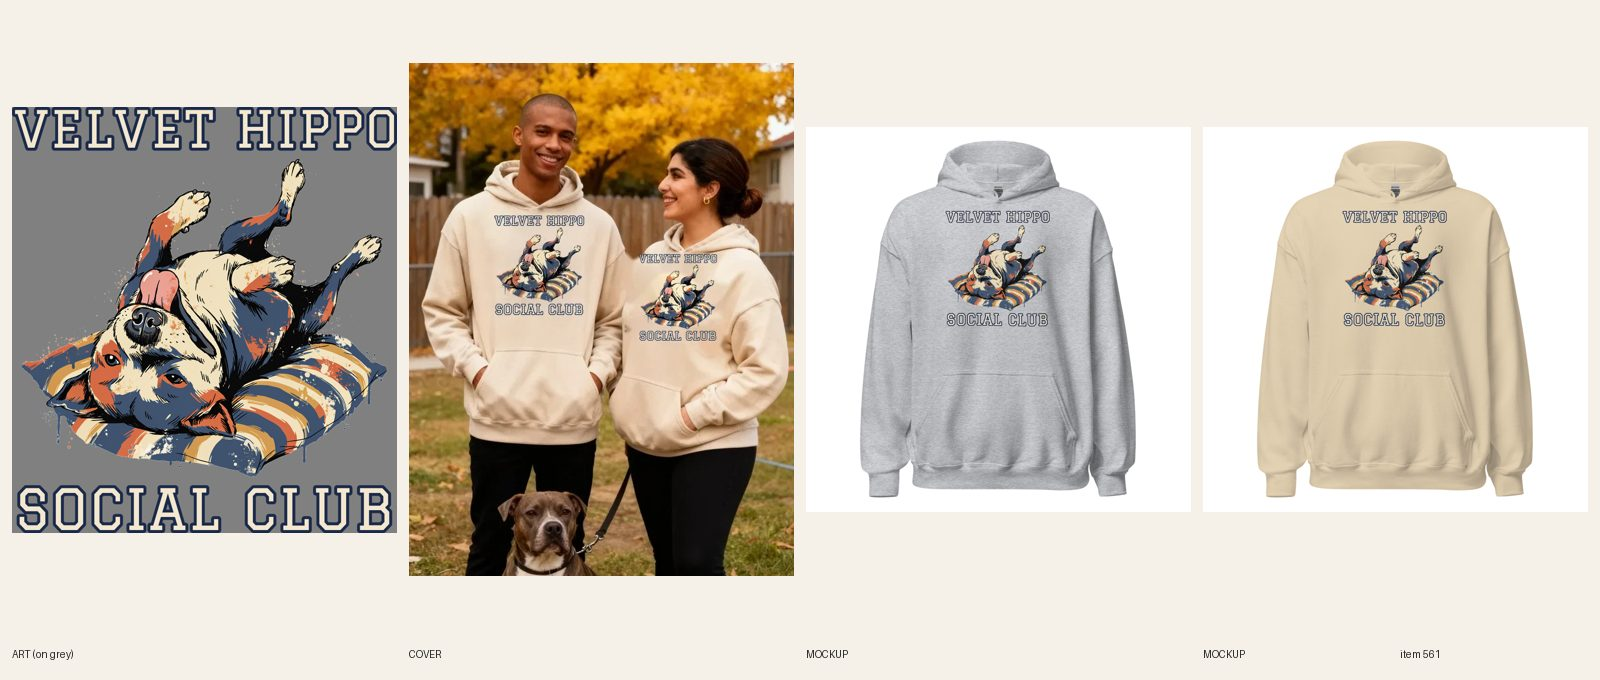
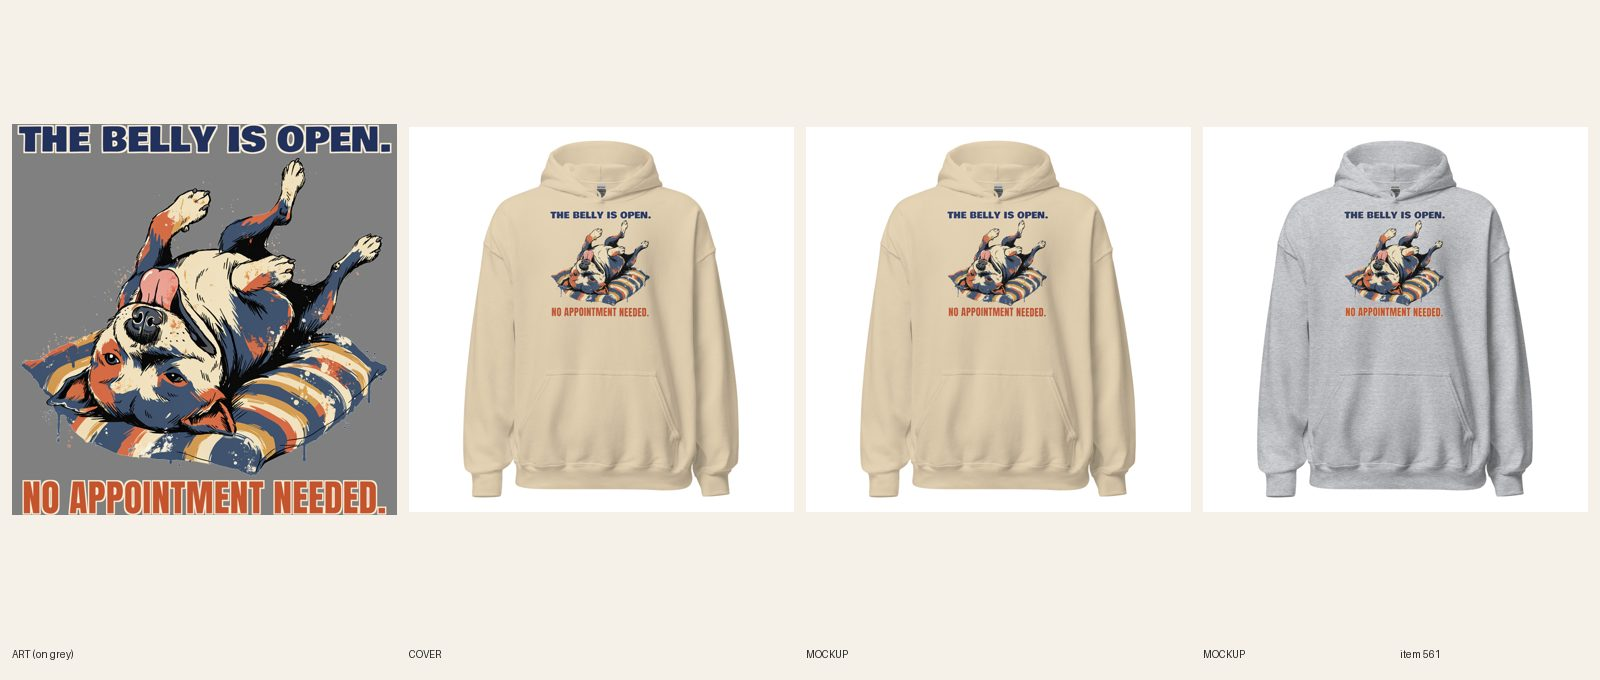
[C] review 561 (redo)
Claude-Session: https://claude.ai/code/session_01CCHcDj8LcJJ8qUPtKE3cvn

diff --git a/designs/c561/make.py b/designs/c561/make.py
@@ -1,0 +1,30 @@
+from PIL import Image, ImageDraw, ImageFont, ImageFilter
+FD='designs/fonts/'
+RED=(196,52,44,255); NAVY=(34,48,92,255); RUST=(196,84,46,255); CREAM=(246,236,214,255); BROWN=(58,36,24,255)
+def line(text,font,wfrac,W,fill,key,kw=31,track=0):
+    f=ImageFont.truetype(FD+font,800); adv=[f.getlength(c) for c in text]
+    tot=sum(adv)+track*(len(text)-1); size=int(800*W*wfrac/tot)
+    f=ImageFont.truetype(FD+font,size); adv=[f.getlength(c) for c in text]; tr=int(track*size/800)
+    asc,desc=f.getmetrics(); tot=int(sum(adv)+tr*(len(text)-1))
+    pad=80; im=Image.new('RGBA',(tot+2*pad,asc+desc+2*pad),(0,0,0,0))
+    def draw(layer,col):
+        d=ImageDraw.Draw(layer); x=pad
+        for c,a in zip(text,adv): d.text((x,pad),c,font=f,fill=col); x+=a+tr
+    k=Image.new('L',im.size,0); d=ImageDraw.Draw(k); x=pad
+    for c,a in zip(text,adv): d.text((x,pad),c,font=f,fill=255); x+=a+tr
+    k=k.filter(ImageFilter.MaxFilter(kw)); im.paste(Image.new('RGBA',im.size,key),(0,0),k)
+    draw(im,fill)
+    return im.crop(im.getbbox())
+src=Image.open('docs/print-files/561-velvet-hippo-social-club-hoodie.png').convert('RGBA')
+W=src.width; art=src.crop((0,456,W,3273))
+h1=line("THE BELLY IS OPEN.",'BowlbyOne-Regular.ttf',0.97,W,NAVY,CREAM,kw=29)
+h2=line("NO APPOINTMENT NEEDED.",'Anton-Regular.ttf',0.95,W,RUST,CREAM,kw=25,track=14)
+print('h1',h1.size,'h2',h2.size,'ratio h2/h1',h2.height/h1.height)
+g=34; H=h1.height+g+art.height+g+h2.height
+out=Image.new('RGBA',(W,H),(0,0,0,0))
+out.alpha_composite(h1,((W-h1.width)//2,0)); y=h1.height+g
+out.alpha_composite(art,(0,y)); y+=art.height+g
+out.alpha_composite(h2,((W-h2.width)//2,y))
+out.save('docs/print-files/561-v2-belly-open.png'); print(out.size,H/W)
+for n,c in (('sand',(214,196,160,255)),('grey',(160,160,165,255))):
+    bg=Image.new('RGBA',out.size,c); bg.alpha_composite(out); bg.convert('RGB').resize((600,int(600*H/W))).save(f'designs/c561/prev_{n}.png')

diff --git a/docs/pipeline/561-pitbull-hoodie-velvet-hippo-social-club.md b/docs/pipeline/561-pitbull-hoodie-velvet-hippo-social-club.md
@@ -1,4 +1,4 @@
-status: REDO
+status: REVIEW
 lane: C
 type: twin
 id: 561
@@ -27,3 +27,4 @@ kd: 14
 - 2026-10-18 04:07 UTC builder [C]: resumed after container loss; Printful sync completed 12/12, audit clean except not-active. REVIEW.
 - 2026-10-18 04:20 UTC director: LIVE. Couple cover, both in the hoodie with hoods (R6.9), pit bull in scene. ACTIVE, published. Audit PASS.
 - 2026-10-18 17:22 UTC director: QUALITY RESET grade C (new line + type), REDO. The product stays ACTIVE (same handle, URL, title keyword). 1. Line (R3.12, quality-reset 'Lines'): "VELVET HIPPO / SOCIAL CLUB": Insider pitbull nickname + stock "social club" format; strangers get no joke. Write 5 candidates, keep the one a stranger laughs at in 3 seconds without backstory; kill lines that only describe the picture; if none of the 5 is funny, PARK it. 2. Quality reset type bar (docs/backlog/quality-reset.md, 'The new bar'): headline at least 90% of the art width, heavy, colors pulled from the art; second line at least 45% of the headline's height, never a thin script on a dark or mid garment; use the lettering as a shape (arch, stacked lockup, words breaking into the art), not a plain bar above and a script line below; no font used on more than 1 in 6 of the last 30 designs. 3. Keep the art if it carries the new line, else one new illustration (R4/R5). New print means a new cover per R6.10, copy line one rewritten for the new joke (R8.3), and a fresh review sheet (R7.7). While quality-reset.md says PAUSED, only lane A builds, and only the samples step 2 names.
+- 2026-10-20 05:25 UTC builder [C]: REDO new line + type (grade C). 5 candidates: "THE BELLY IS OPEN. / NO APPOINTMENT NEEDED." (kept: a stranger gets it from the picture), "MY LOVE LANGUAGE IS BELLY RUBS." (stock), "BELLY UP. NO NOTES.", "PLEASE TOUCH THE BELLY.", "OFFICIAL BELLY RUB INSPECTOR". Same belly-up pit bull art; velvet hippo insider name dropped from the print. THE BELLY IS OPEN. Bowlby One 97% of the art width, navy with cream keyline; NO APPOINTMENT NEEDED. Anton 95% width, rust with cream keyline (118% of the headline's height). Sand + Sport Grey both light, no cream fill, one file. Print docs/print-files/561-v2-belly-open.png 3406 x 3461, file 1090148539, FW 1500 TOP 0, 12/12 relinked. 2 fronts replaced in place, read at phone size. Copy + SEO rewritten for the new joke; keyword pitbull apparel kept. Plain product shot. fal $0.

diff --git a/docs/intake-log.md b/docs/intake-log.md
@@ -7,6 +7,7 @@ RUNNING lane B since 2026-10-20 03:28 UTC
 2026-10-20 03:41 UTC — [B] Builder run: redid #362 Women's Baseball hoodie (line + type: MISSED THE PLAY. / SEEDS WERE GOOD., same art, Bowlby One, Navy + Sand light files, 12/12 synced). REVIEW. fal $0.
 2026-10-20 05:26 UTC — [E] Builder run: redid #388 Women's Christmas crewneck (line + type: SORRY, I'M BOOKED TILL JANUARY., new party-calendar art, Navy + Sand files, 12/12 synced, copy updated, plain product shot). REVIEW. fal $0.08.
 RUNNING lane C since 2026-10-20 03:23 UTC
+2026-10-20 05:27 UTC — [C] Builder run: redid #561 Unisex Pitbull hoodie (new line + type: THE BELLY IS OPEN. / NO APPOINTMENT NEEDED., Bowlby One + Anton, same belly-up art, file 1090148539, FW 1500 TOP 0, 12/12 relinked, 2 fronts replaced in place, copy + SEO updated, plain product shot). REVIEW. fal $0.
 2026-10-20 05:02 UTC — [C] Builder run: redid #552 Women's Knitting hoodie (new line + type: DON'T TALK TO ME. / I'M COUNTING., Anton + Bowlby One, same armchair art, file 1090141621, FW 1500 TOP 0, 12/12 relinked, 2 fronts replaced in place, copy + SEO updated, plain product shot). REVIEW. fal $0.
 2026-10-20 04:32 UTC — [C] Builder run: redid #554 Men's Grandpa I Fix Things After Naps hoodie (new line + type: I'M FIXING IT. / EYES CLOSED. STILL WORKING., Bevan + Anton full width, same recliner art, file 1090139027, FW 1500 TOP 0, 12/12 relinked, 2 fronts replaced in place, copy + SEO updated, plain product shot). REVIEW. fal $0.
 2026-10-20 03:52 UTC — [C] Builder run: redid #635 Women's Fishing Out-Fished Him. Again. zip hoodie (type only: AGAIN. in Bowlby One heavy, navy on Ash / cream+red keyline on Navy, same art, back files 1090135325 / 1090135337, 12/12 relinked, 2 back mockups replaced in place, copy updated, plain product shot). REVIEW. fal $0.
